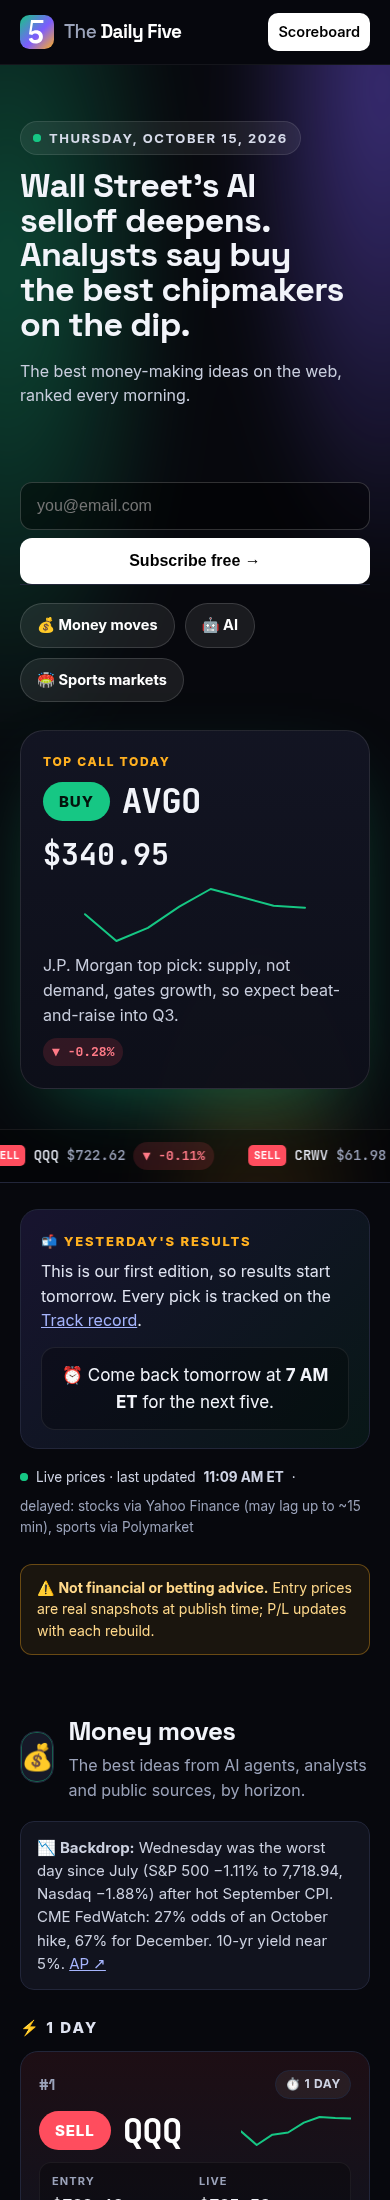
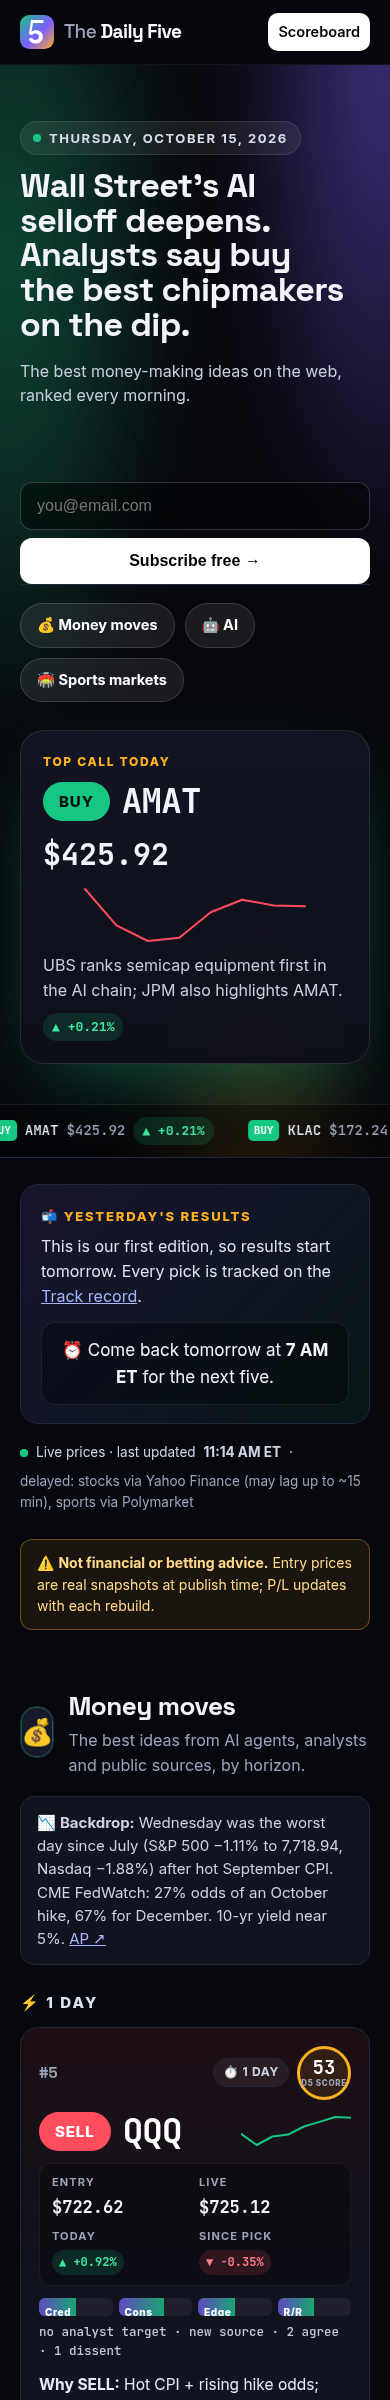
OG headline wrap

diff --git a/build.py b/build.py
@@ -260,12 +260,14 @@ HOWTO=("<section class='sbhero'><span class='kicker'>🧮 Methodology</span><h1 
 
 def ogimage(ed,nice):
     fin=ed['finance'][:4]
-    rowsvg=''.join(f'<g transform="translate(70,{300+i*70})"><rect width="128" height="48" rx="24" fill="{"#16c784" if p["action"]=="BUY" else "#ff4d5e"}"/><text x="64" y="33" text-anchor="middle" font-size="24" font-weight="800" fill="#06130c">{p["action"]}</text><text x="150" y="36" font-family="monospace" font-size="38" font-weight="700" fill="#fff">{E(p["label"])}</text><text x="380" y="36" font-family="monospace" font-size="30" fill="#9ba3ba">${p["entry"]:,.2f}</text><text x="640" y="36" font-size="24" fill="#c9cede">{E(p["horizon"])}</text></g>' for i,p in enumerate(fin))
+    rowsvg=''.join(f'<g transform="translate(70,{330+i*62})"><rect width="128" height="48" rx="24" fill="{"#16c784" if p["action"]=="BUY" else "#ff4d5e"}"/><text x="64" y="33" text-anchor="middle" font-size="24" font-weight="800" fill="#06130c">{p["action"]}</text><text x="150" y="36" font-family="monospace" font-size="38" font-weight="700" fill="#fff">{E(p["label"])}</text><text x="380" y="36" font-family="monospace" font-size="30" fill="#9ba3ba">${p["entry"]:,.2f}</text><text x="640" y="36" font-size="24" fill="#c9cede">{E(p["horizon"])}</text></g>' for i,p in enumerate(fin))
+    import textwrap
+    hl=''.join(f'<text x="70" y="{240+i*40}" font-size="32" font-weight="700" fill="#fff">{E(l)}</text>' for i,l in enumerate(textwrap.wrap(ed['headline'],58)[:2]))
     logo=LOGO.replace('class="mark" ','').replace(' width="34" height="34"','').replace('<svg ','<svg width="40" height="40" ')
     svg=(f'<svg xmlns="http://www.w3.org/2000/svg" width="1200" height="630" viewBox="0 0 1200 630"><defs><radialGradient id="a" cx=".15" cy=".1" r=".7"><stop offset="0" stop-color="#16c784" stop-opacity=".45"/><stop offset="1" stop-color="#07080d" stop-opacity="0"/></radialGradient><radialGradient id="b" cx=".9" cy=".2" r=".7"><stop offset="0" stop-color="#7c5cff" stop-opacity=".55"/><stop offset="1" stop-color="#07080d" stop-opacity="0"/></radialGradient></defs>'
          f'<rect width="1200" height="630" fill="#07080d"/><rect width="1200" height="630" fill="url(#a)"/><rect width="1200" height="630" fill="url(#b)"/><g font-family="Inter,Helvetica,Arial,sans-serif">'
          f'<g transform="translate(70,60) scale(1.6)">{logo}</g><text x="160" y="112" font-size="44" font-weight="800" fill="#fff">The Daily Five</text>'
-         f'<text x="70" y="200" font-size="26" font-weight="700" fill="#ffb020" letter-spacing="3">{E(nice.upper())}</text><text x="70" y="250" font-size="34" font-weight="700" fill="#fff">{E(ed["headline"][:60])}</text>{rowsvg}'
+         f'<text x="70" y="200" font-size="26" font-weight="700" fill="#ffb020" letter-spacing="3">{E(nice.upper())}</text>{hl}{rowsvg}'
          f'<text x="1130" y="600" text-anchor="end" font-size="22" fill="#9ba3ba">readdailyfive.com \u00b7 Not financial advice</text></g></svg>')
     rel=f"og/{ed['date']}.png"; w(f"og/{ed['date']}.svg",svg); svgp=os.path.join(OUT,f"og/{ed['date']}.svg")
     chrome=shutil.which('google-chrome') or shutil.which('chromium') or shutil.which('chromium-browser')
